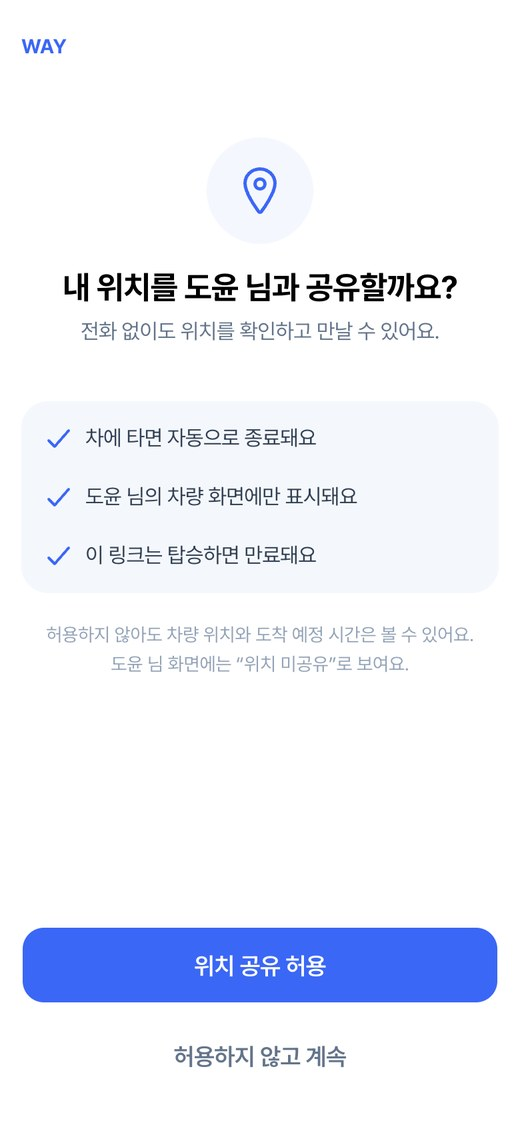
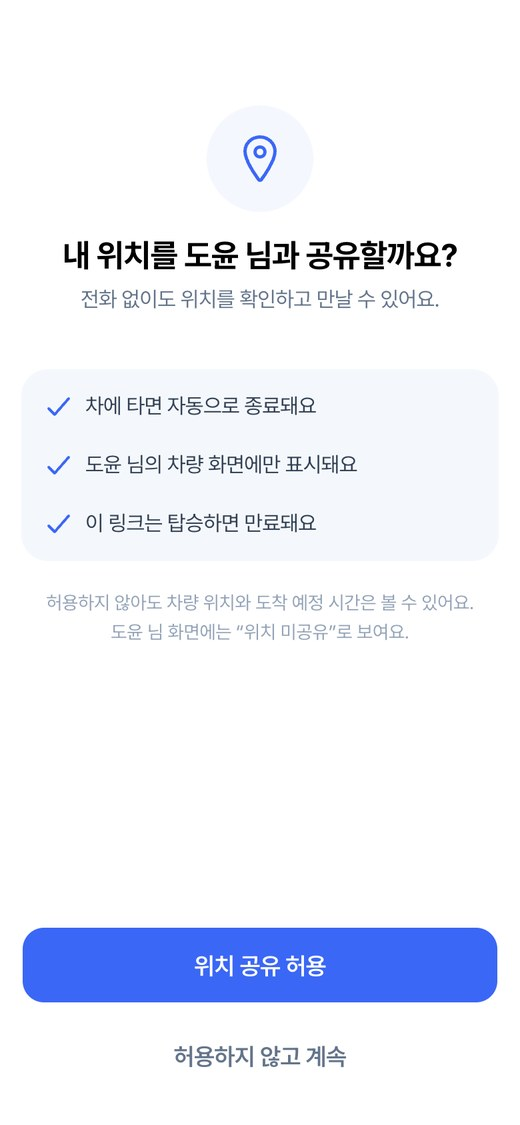
[Feat] 동승자 웹 P-02 — 피그마대로 로고 빼기(본문 위 135 : 상태 줄 56 · 화면 여백 24 → 55)
- 글자 로고 logo()·.logo 는 P-02 만 쓰던 것이라 함께 지움
- README P-02 그림 새로

diff --git a/server/src/main/resources/web/app.js b/server/src/main/resources/web/app.js
@@ -195,7 +195,6 @@ function h(tag, attrs = {}, ...children) {
 const icon = (name, size = 20) => h("img", { src: `/web/icons/${name}.svg`, alt: "", width: size, height: size });
 /** P-01 카드 머리글(Label/Medium · Primary-500) — 피그마 개정: 앞 아이콘 없음 */
 const cardHead = (text) => h("p", { class: "card-head" }, text);
-const logo = () => h("p", { class: "logo" }, "WAY");
 /** P-01 로고(피그마 477:3378): WAY 워드마크 + WHERE ARE YOU */
 const brandLogo = () =>
   h("div", { class: "brand-logo", role: "img", "aria-label": "WAY · Where are you" }, h("img", { class: "way", src: "/web/icons/logo-way.svg", alt: "" }), h("img", { class: "where", src: "/web/icons/logo-where.svg", alt: "" }));
@@ -554,7 +553,6 @@ const screens = {
     const el = h(
       "section",
       { class: "screen" },
-      logo(),
       h(
         "div",
         { class: "stack consent-body", style: "gap:40px" },

diff --git a/server/src/main/resources/web/app.css b/server/src/main/resources/web/app.css
@@ -110,15 +110,6 @@ body:has(.screen.soft) {
   min-width: 0;
 }
 
-/* 로고(임시) — 피그마 높이 22 · 아래 20 */
-.logo {
-  font-weight: 700;
-  font-size: 15px;
-  line-height: 22px;
-  color: var(--primary-500);
-  margin-bottom: 20px;
-}
-
 /* P-01 로고(피그마 477:3378) — 78 × 29.9 상자 안에 WAY(76.7 × 16.8) · WHERE ARE YOU(78 × 6.6), 아래 본문까지 12 */
 .brand-logo {
   position: relative;
@@ -645,9 +636,9 @@ body:has(.screen.soft) {
 
 /* ── P-02 위치 공유 허용 */
 
-/* 피그마: 로고 아래 57px 에서 시작 */
+/* 피그마 200:3622: 로고 없음 · 내용은 프레임 위 135 에서 시작 — 상태 줄 몫 56 빼고 79, 화면 위 여백 24 를 빼면 55 */
 .consent-body {
-  margin-top: 37px;
+  margin-top: 55px;
 }
 
 .status-icon {
